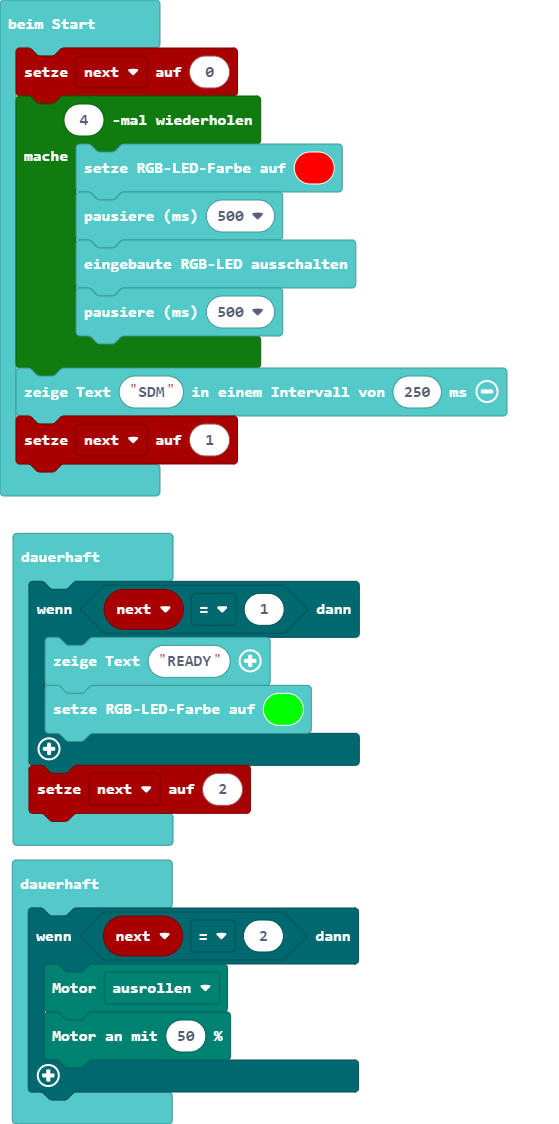
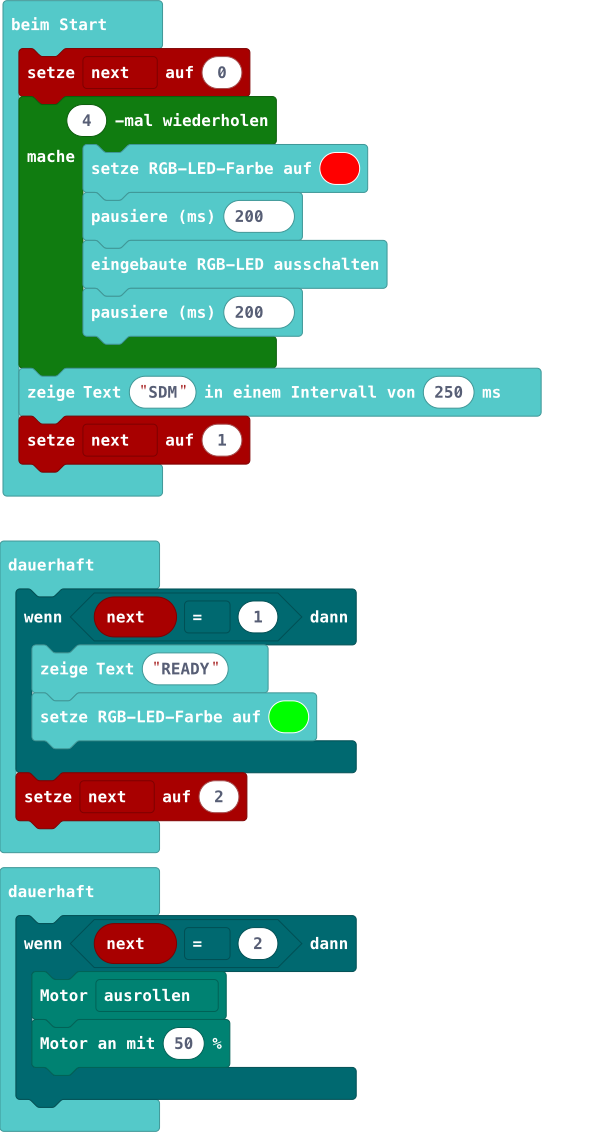
Zeiten verändert, startet schneller

Changed region(s): [[0.0, 0.0, 0.9123, 1.0], [0.2433, 0.9653, 0.3345, 1.0], [0.5778, 0.9342, 0.6691, 0.9964]]

diff --git a/main.ts b/main.ts
@@ -1,9 +1,9 @@
 let next = 0
 for (let index = 0; index < 4; index++) {
     basic.setLedColor(0xff0000)
-    basic.pause(500)
+    basic.pause(200)
     basic.turnRgbLedOff()
-    basic.pause(500)
+    basic.pause(200)
 }
 basic.showString("SDM", 250)
 next = 1
